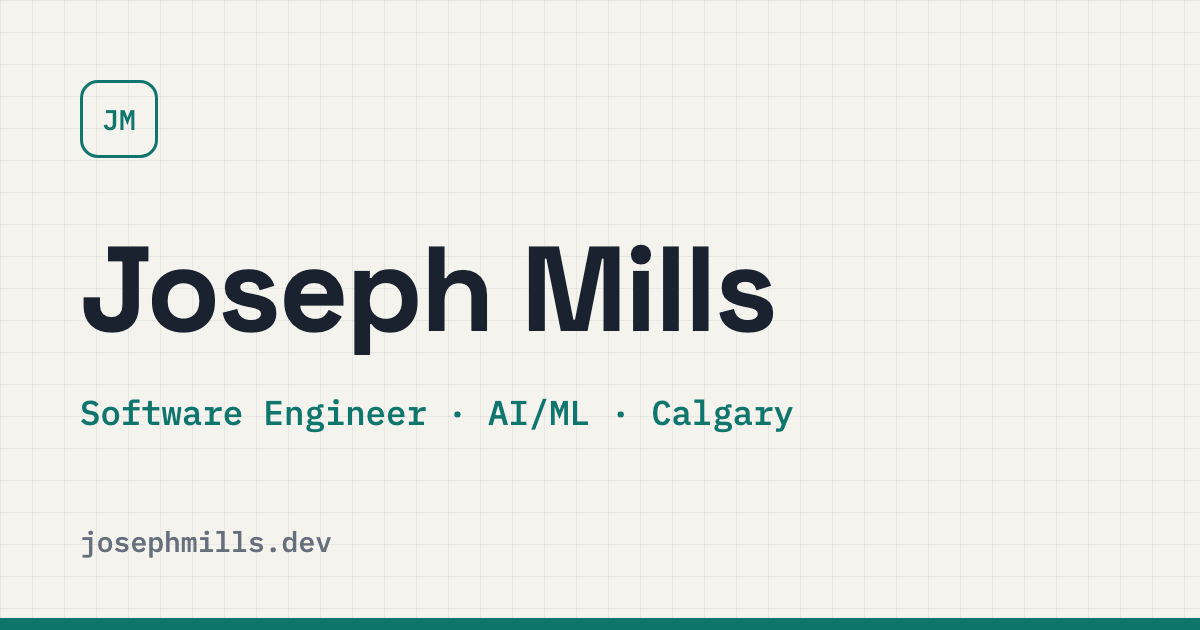
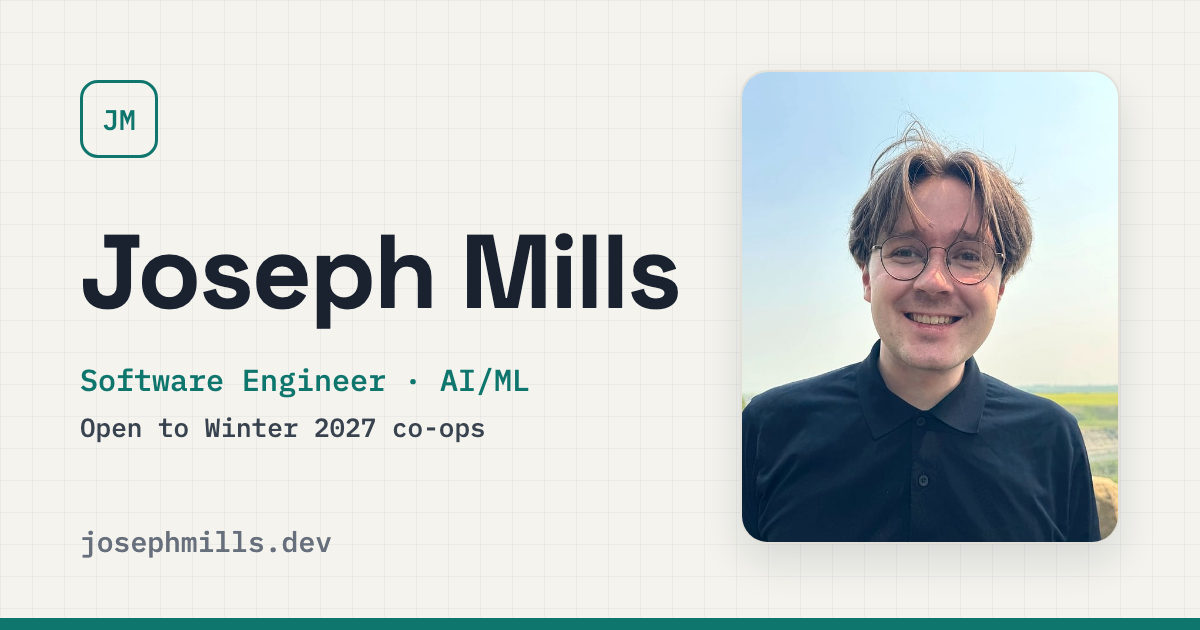
feat: final touches (project thumbnails, skip link, SEO, nav fade, copy email, portrait preview)
- thumbnails for Woofer, Classroom Finder and Music Browser (screenshots of the live apps)
- skip-to-content link; main is focusable
- title/description and Person JSON-LD (no email or phone in structured data)
- phone nav fades at the right edge with room for the last link
- copy-email button (hidden without JS)
- link preview image now includes the portrait
- test fix: gallery teardown test waits for the clip to start before closing

Changed region(s): [[0.0617, 0.0905, 0.9558, 0.8746]]

diff --git a/tests/e2e/final.spec.ts b/tests/e2e/final.spec.ts
@@ -1,0 +1,82 @@
+import { expect, test } from '@playwright/test';
+
+test('more-projects cards with a live app show an optimised thumbnail', async ({ page }) => {
+  await page.goto('/');
+  const cards = page.locator('#more-projects article');
+  await expect(cards).toHaveCount(4);
+  await expect(page.locator('#more-projects img')).toHaveCount(3);
+  for (const title of ['Woofer', 'Classroom Finder', 'Music Browser']) {
+    const img = cards.filter({ has: page.getByRole('heading', { name: title }) }).locator('img');
+    await img.scrollIntoViewIfNeeded();
+    await expect(img).toHaveAttribute('src', /\.webp$/);
+    await expect(img).toHaveAttribute('alt', new RegExp(title, 'i'));
+    await expect.poll(() => img.evaluate((el: HTMLImageElement) => el.complete && el.naturalWidth > 0)).toBe(true);
+  }
+  await expect(cards.filter({ has: page.getByRole('heading', { name: 'Multi-Threaded Web Server' }) }).locator('img')).toHaveCount(0);
+});
+
+test('skip link is the first tab stop and moves focus to the main content', async ({ page }) => {
+  await page.goto('/');
+  await page.keyboard.press('Tab');
+  const skip = page.locator('a.skip-link');
+  await expect(skip).toBeFocused();
+  const box = await skip.boundingBox();
+  expect(box!.y).toBeGreaterThanOrEqual(0);
+  await page.keyboard.press('Enter');
+  await expect(page.locator('#main')).toBeFocused();
+});
+
+test('title, description and structured data identify Joseph', async ({ page }) => {
+  await page.goto('/');
+  await expect(page).toHaveTitle(/Joseph Mills.*Software Engineer/);
+  const desc = (await page.locator('meta[name=description]').getAttribute('content')) ?? '';
+  expect(desc).toContain('co-op');
+  expect(desc.length).toBeLessThanOrEqual(170);
+  const ld = JSON.parse((await page.locator('script[type="application/ld+json"]').textContent()) ?? '{}');
+  expect(ld['@type']).toBe('Person');
+  expect(ld.name).toBe('Joseph Mills');
+  expect(ld.sameAs).toEqual(expect.arrayContaining(['https://github.com/JD-D3V', 'https://www.linkedin.com/in/joseph-mills317']));
+  expect(JSON.stringify(ld)).not.toMatch(/403|@mtroyal|tel:/); // no phone or email in structured data
+});
+
+test('phone nav fades at the edge but the last link is fully reachable', async ({ page }, testInfo) => {
+  test.skip(testInfo.project.name !== 'mobile', 'mobile only');
+  await page.goto('/');
+  const links = page.locator('.nav__links');
+  expect(await links.evaluate((el) => getComputedStyle(el).maskImage)).not.toBe('none');
+  expect(await links.evaluate((el) => el.scrollWidth > el.clientWidth)).toBe(true);
+  const gap = await links.evaluate((el) => {
+    el.scrollLeft = el.scrollWidth;
+    const last = el.querySelector('li:last-child a')!.getBoundingClientRect();
+    return el.getBoundingClientRect().right - last.right;
+  });
+  expect(gap).toBeGreaterThanOrEqual(24);
+});
+
+test('desktop nav has no edge fade', async ({ page }, testInfo) => {
+  test.skip(testInfo.project.name !== 'desktop', 'desktop only');
+  await page.goto('/');
+  expect(await page.locator('.nav__links').evaluate((el) => getComputedStyle(el).maskImage)).toBe('none');
+});
+
+test('copy-email button copies the address', async ({ browser }) => {
+  const context = await browser.newContext({ permissions: ['clipboard-read', 'clipboard-write'] });
+  const page = await context.newPage();
+  await page.goto('/');
+  const btn = page.locator('#contact button[data-copy]');
+  await btn.scrollIntoViewIfNeeded();
+  await btn.click();
+  await expect(btn).toHaveText('Copied');
+  expect(await page.evaluate(() => navigator.clipboard.readText())).toBe('jmill004@mtroyal.ca');
+  await expect(btn).toHaveText('Copy', { timeout: 4000 });
+  await context.close();
+});
+
+test('copy-email button is hidden without JavaScript', async ({ browser }) => {
+  const context = await browser.newContext({ javaScriptEnabled: false });
+  const page = await context.newPage();
+  await page.goto('/');
+  await expect(page.locator('#contact button[data-copy]')).toBeHidden();
+  await expect(page.locator('#contact a[href="mailto:jmill004@mtroyal.ca"]').first()).toBeVisible();
+  await context.close();
+});

diff --git a/src/data/site.ts b/src/data/site.ts
@@ -3,6 +3,9 @@
 import type { ImageMetadata } from 'astro';
 import portraitImage from '../assets/portrait.jpg';
 import spruceMeadowsPhoto from '../assets/experience/spruce-meadows.jpg';
+import wooferShot from '../assets/more-projects/woofer.jpg';
+import classroomShot from '../assets/more-projects/classroom.jpg';
+import musicShot from '../assets/more-projects/music.jpg';
 
 export interface Link {
   label: string;
@@ -29,7 +32,7 @@ export interface SiteConfig {
     photo?: { image: ImageMetadata; alt: string; credit?: string };
   }[];
   skills: { group: string; items: string[] }[];
-  moreProjects: { title: string; year: string; tech: string; text: string; href?: string }[];
+  moreProjects: { title: string; year: string; tech: string; text: string; href?: string; image?: { src: ImageMetadata; alt: string } }[];
   beyond: { title: string; text: string }[];
   contact: {
     blurb: string;
@@ -120,6 +123,7 @@ export const site: SiteConfig = {
       tech: 'JavaScript · TypeScript · Go · Next.js · Postgres',
       text: 'A dog adoption app on Next.js, live on Vercel, where adopters browse dogs and shelters review applicants. The Go REST API on Postgres covers listings, matches and messaging, with login required on every endpoint.',
       href: 'https://woofer-web-ashen.vercel.app',
+      image: { src: wooferShot, alt: 'Woofer home page: swipe right on your new best friend, with a cartoon golden retriever' },
     },
     {
       title: 'Classroom Finder',
@@ -127,6 +131,7 @@ export const site: SiteConfig = {
       tech: 'React · TypeScript · Python · Playwright',
       text: 'A React/TypeScript web app and Telegram bot that read the university timetable to show which classrooms are free, backed by a Python REST API.',
       href: 'https://jd-d3v.github.io/Class-Finder',
+      image: { src: classroomShot, alt: 'Classroom Finder (MRU Finder) listing which rooms are free now' },
     },
     {
       title: 'Music Browser',
@@ -134,6 +139,7 @@ export const site: SiteConfig = {
       tech: 'JavaScript · React · Node.js · Express · SQLite',
       text: 'A music catalogue app with filtering and sorting, charts comparing 6 audio measurements per song, and a feature that finds the 3 most similar tracks.',
       href: 'https://jd-d3v.github.io/COMP4513Assign2',
+      image: { src: musicShot, alt: 'Music Browser home page with a wall of artist photos and the headline Discover Music' },
     },
     {
       title: 'Multi-Threaded Web Server',

diff --git a/tests/e2e/gallery.spec.ts b/tests/e2e/gallery.spec.ts
@@ -84,14 +84,17 @@ test('closing stops video and removes the YouTube iframe', async ({ page }) => {
   await opener(page, 'zz-fixture-all-media').click();
   await page.keyboard.press('ArrowRight');
   await expect(counter(page)).toHaveText('2 / 3');
-  const playsBefore = await page.evaluate(() => (window as unknown as { __plays: number }).__plays);
-  expect(playsBefore).toBeGreaterThan(0);
+  // wait until the clip has really started, so closing has something to stop
+  await expect.poll(() => page.evaluate(() => (window as unknown as { __plays: number }).__plays)).toBeGreaterThan(0);
   const pausesBefore = await page.evaluate(() => (window as unknown as { __pauses: number }).__pauses);
   await page.keyboard.press('Escape');
   await expect(page.locator('dialog[open]')).toHaveCount(0);
-  const dialogVideo = page.locator('dialog[data-gallery-dialog="zz-fixture-all-media"] video');
-  expect(await dialogVideo.evaluate((v: HTMLVideoElement) => v.paused)).toBe(true);
+  const allPaused = await page.evaluate(() => [...document.querySelectorAll('video')].filter((v) => v.closest('dialog')).every((v) => v.paused));
+  expect(allPaused).toBe(true);
   expect(await page.evaluate(() => (window as unknown as { __pauses: number }).__pauses)).toBeGreaterThan(pausesBefore);
+  const playsAfterClose = await page.evaluate(() => (window as unknown as { __plays: number }).__plays);
+  await page.waitForTimeout(300);
+  expect(await page.evaluate(() => (window as unknown as { __plays: number }).__plays)).toBe(playsAfterClose); // nothing restarts it
 
   await opener(page, 'zz-fixture-all-media').click();
   await page.keyboard.press('ArrowLeft');

diff --git a/src/scripts/copy.ts b/src/scripts/copy.ts
@@ -1,0 +1,18 @@
+// Reveals the "Copy" buttons (hidden without JS) and copies their data-copy value.
+export function initCopyButtons(): void {
+  document.querySelectorAll<HTMLButtonElement>('button[data-copy]').forEach((btn) => {
+    if (!navigator.clipboard) return;
+    btn.hidden = false;
+    let timer: number | undefined;
+    btn.addEventListener('click', async () => {
+      try {
+        await navigator.clipboard.writeText(btn.dataset.copy ?? '');
+      } catch {
+        return; // blocked clipboard: leave the button as is
+      }
+      btn.textContent = 'Copied';
+      window.clearTimeout(timer);
+      timer = window.setTimeout(() => (btn.textContent = 'Copy'), 1500);
+    });
+  });
+}

diff --git a/src/styles/global.css b/src/styles/global.css
@@ -87,6 +87,28 @@ video {
   }
 }
 
+.skip-link {
+  position: absolute;
+  left: 12px;
+  top: -64px;
+  z-index: 100;
+  padding: 10px 16px;
+  font-family: 'IBM Plex Mono', ui-monospace, monospace;
+  font-size: 0.875rem;
+  color: var(--bg);
+  background: var(--accent);
+  border-radius: 8px;
+  text-decoration: none;
+}
+
+.skip-link:focus {
+  top: 12px;
+}
+
+main:focus {
+  outline: none;
+}
+
 .sr-only {
   position: absolute;
   width: 1px;

diff --git a/tests/unit/og.test.ts b/tests/unit/og.test.ts
@@ -1,0 +1,9 @@
+import { readFileSync } from 'node:fs';
+import { expect, it } from 'vitest';
+
+it('og.png is a 1200x630 PNG', () => {
+  const buf = readFileSync(new URL('../../public/og.png', import.meta.url));
+  expect(buf.subarray(1, 4).toString()).toBe('PNG');
+  expect(buf.readUInt32BE(16)).toBe(1200);
+  expect(buf.readUInt32BE(20)).toBe(630);
+});
